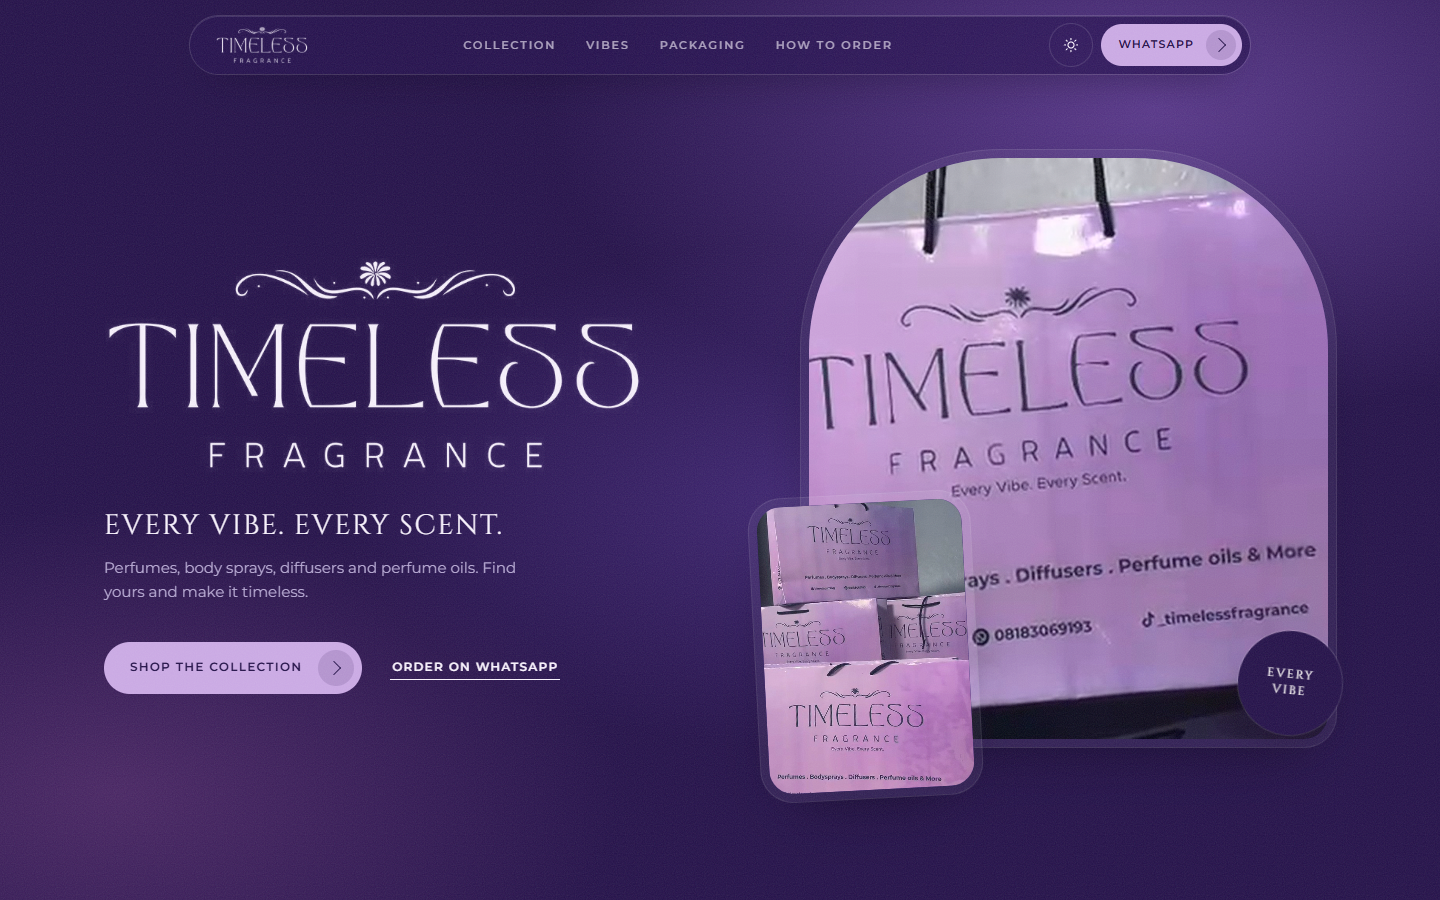
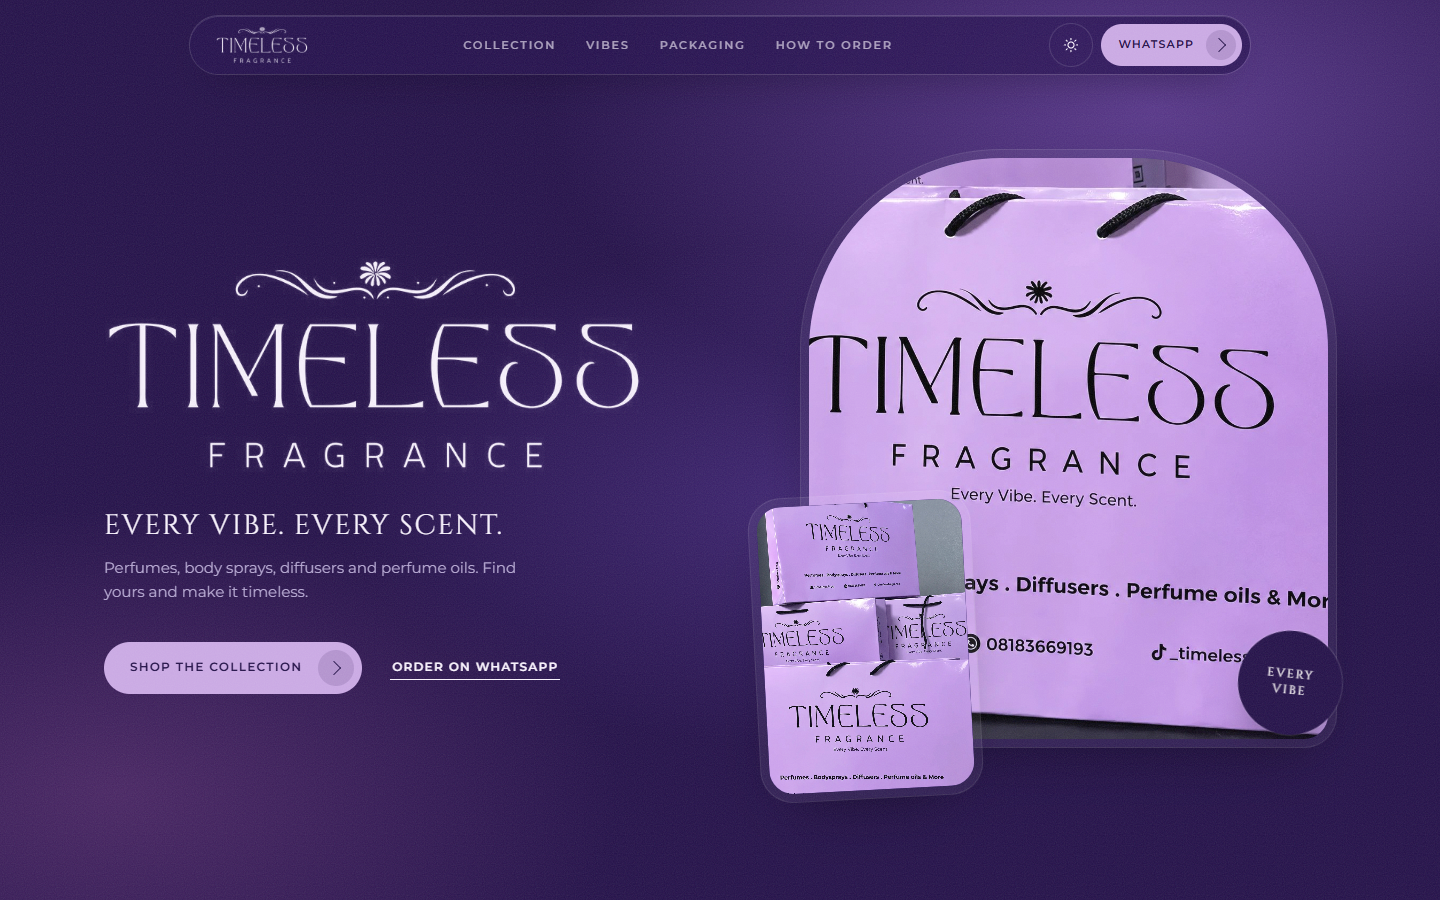
Use upscaled brand photos, tune hero crop, new short domain

Changed region(s): [[0.5, 0.1556, 0.9375, 0.9022]]

diff --git a/styles.css b/styles.css
@@ -92,7 +92,7 @@ h1{line-height:1}
 .hero-art{position:relative;height:min(680px,72vh);min-height:480px}
 .shell-main{position:absolute;right:0;top:0;width:92%;border-radius:200px 200px 32px 32px}
 .shell-main .core{border-radius:192px 192px 24px 24px}
-.shell-main img{width:100%;aspect-ratio:1/1.12;object-fit:cover;object-position:50% 50%}
+.shell-main img{width:100%;aspect-ratio:1/1.12;object-fit:cover;object-position:40% 50%;transform:scale(1.1);transform-origin:50% 100%}
 .shell-tall{position:absolute;left:0;bottom:0;width:38%;transform:rotate(-3deg)}
 .shell-tall.reveal.in{transform:rotate(-3deg)}
 .shell-tall img{width:100%;aspect-ratio:3/4.2;object-fit:cover;object-position:50% 60%}

diff --git a/tools/build_images.py b/tools/build_images.py
@@ -1,7 +1,7 @@
 """Builds the placeholder images/ files from source-frames/ (2x Lanczos + crop).
-Replace any file in images/ with an upscaled version using the same filename."""
+Existing files (e.g. upscaled replacements) are kept; pass --force to rebuild the low-res placeholders."""
 from PIL import Image
-import os
+import os, sys
 root = os.path.dirname(os.path.dirname(os.path.abspath(__file__)))
 sf, out = os.path.join(root, 'source-frames'), os.path.join(root, 'images')
 jobs = {  # name: (source frame, crop box or None)
@@ -12,6 +12,8 @@ jobs = {  # name: (source frame, crop box or None)
     'note.jpg': ('vid3-02.png', (0, 270, 464, 700)),      # "your partner owes you a perfume" note
 }
 for name, (src, box) in jobs.items():
+    if os.path.exists(os.path.join(out, name)) and '--force' not in sys.argv:
+        print('keep', name); continue
     im = Image.open(os.path.join(sf, src)).convert('RGB')
     if box: im = im.crop(box)
     im = im.resize((im.width * 2, im.height * 2), Image.LANCZOS)

diff --git a/README.md b/README.md
@@ -2,7 +2,7 @@
 
 A one-page storefront for **Timeless Fragrance** ([@_timelessfragrance](https://www.tiktok.com/@_timelessfragrance) on TikTok): perfumes, body sprays, diffusers and perfume oils, with every product ordering straight through WhatsApp.
 
-Live: https://timeless-fragrance-zeta.vercel.app
+Live: https://timelessfragrance.vercel.app
 
 ![Light](screenshots/light-desktop-hero.png)
 ![Dark](screenshots/dark-desktop-hero.png)
@@ -23,7 +23,7 @@ Product photos: save `images/products/<product-id>.jpg` (4:5 works best). Until 
 
 ## Replacing placeholder images
 
-The photos are stills from the brand's videos. Upscale any file in `source-frames/` and save it over the matching name in `images/` (`hero.jpg`, `bag-wide.jpg`, `bag-close.jpg`, `bag-qr.jpg`, `note.jpg`) and the site picks it up. `tools/build_images.py` regenerates the placeholders.
+The photos in `images/` (`hero.jpg`, `bag-wide.jpg`, `bag-close.jpg`, `bag-qr.jpg`, `note.jpg`) are upscaled stills from the brand's videos; the originals are in `source-frames/`. Save a better file over the same name and the site picks it up. `tools/build_images.py --force` rebuilds the low-res placeholders.
 
 ## Tools
 
